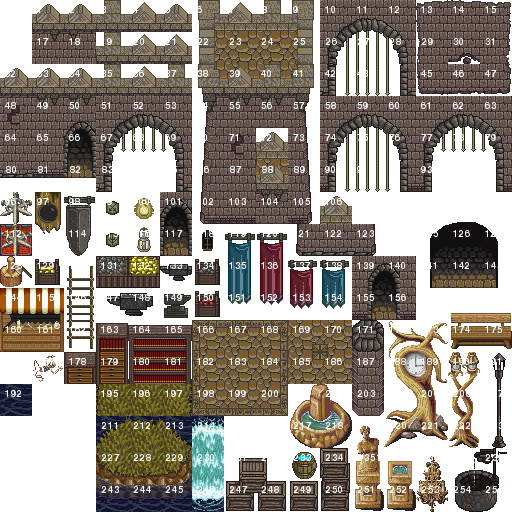
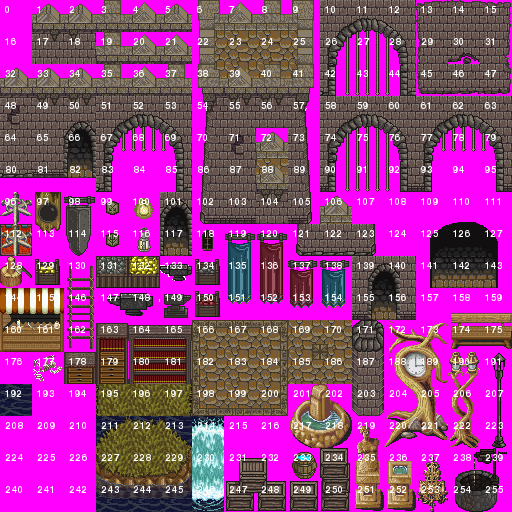
Made better castle cheatsheet.

diff --git a/src/Create_Tileset_Cheatsheet.py b/src/Create_Tileset_Cheatsheet.py
@@ -1,3 +1,6 @@
+import pygame, sys
+from pygame.locals import *
+
 def create_tileset_cheatsheet(file, image_width, image_height, tile_width, tile_height):
     pygame.init()
     window = pygame.display.set_mode((200, 200), 0, 32)
